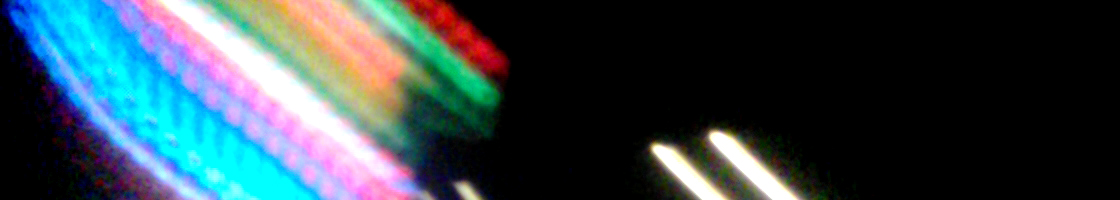
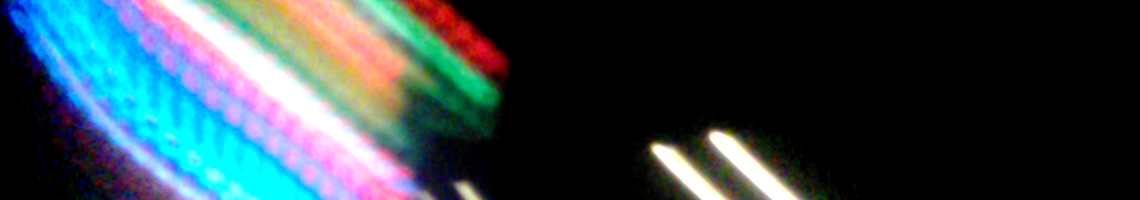
updates headers to 1140 width and header image definition

Changed region(s): [[0.0312, 0.0, 0.4688, 1.0], [0.5625, 0.63, 0.75, 1.0]]

diff --git a/functions.php b/functions.php
@@ -131,7 +131,7 @@ function ap_core_setup() {
 	define( 'HEADER_IMAGE', '%s/images/headers/leaves.jpg' );
 
 	// The height and width of your custom header. You can hook into the theme's own filters to change these values.
-	define( 'HEADER_IMAGE_WIDTH', apply_filters( 'core_header_image_width', 1120 ) );
+	define( 'HEADER_IMAGE_WIDTH', apply_filters( 'core_header_image_width', 1140 ) );
 	define( 'HEADER_IMAGE_HEIGHT', apply_filters( 'core_header_image_height', 200 ) );
 
 	// We'll be using post thumbnails for custom header images on posts and pages.
